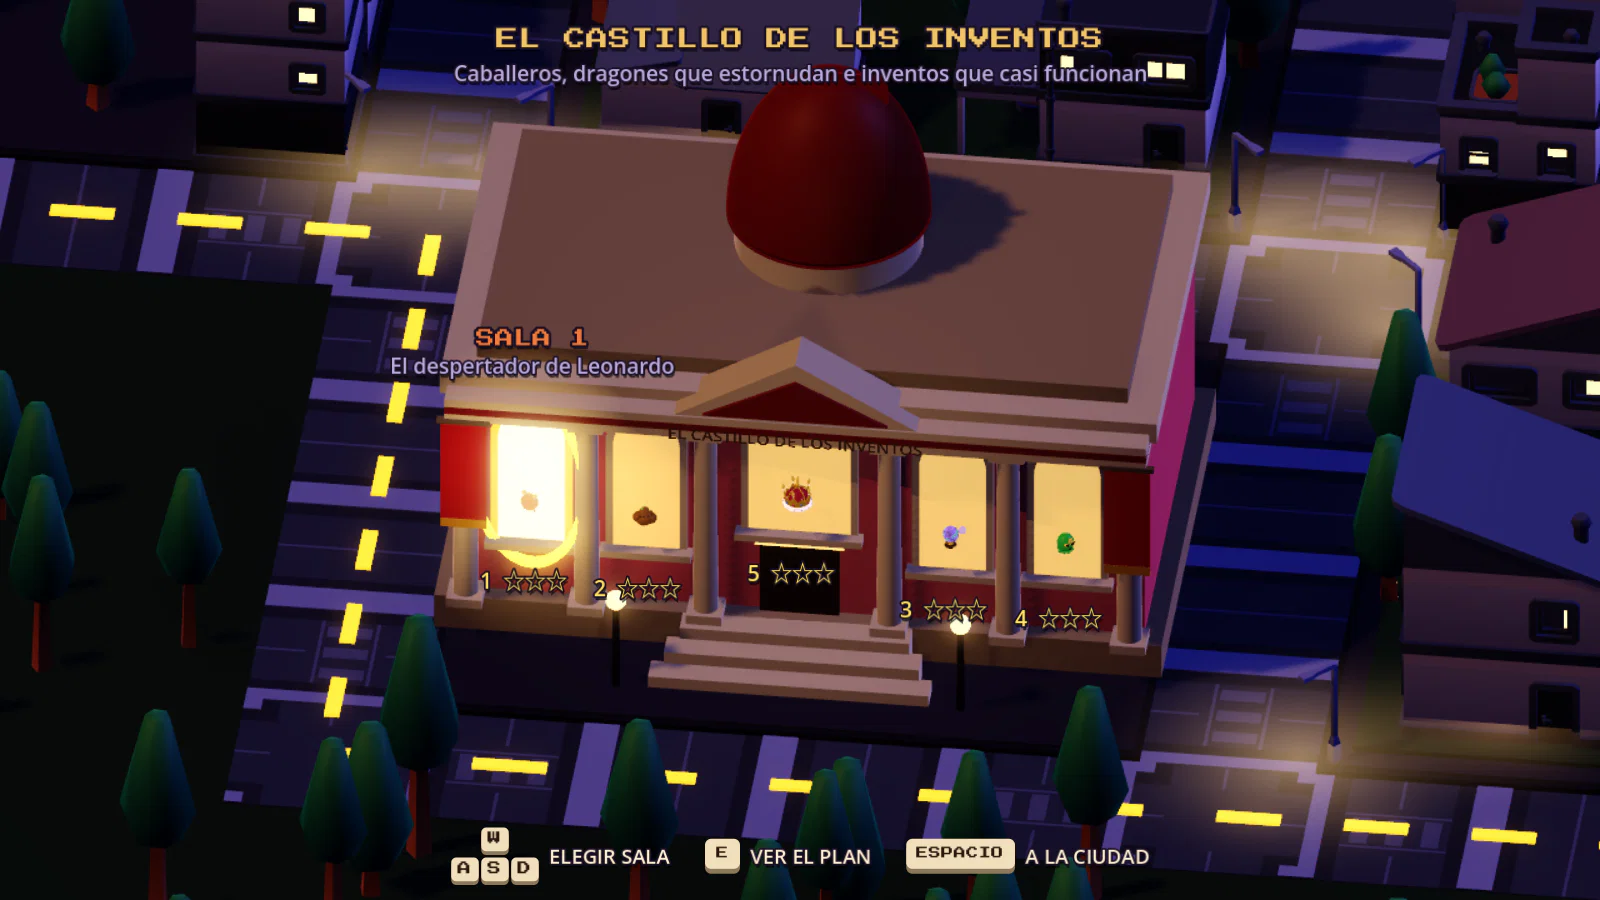
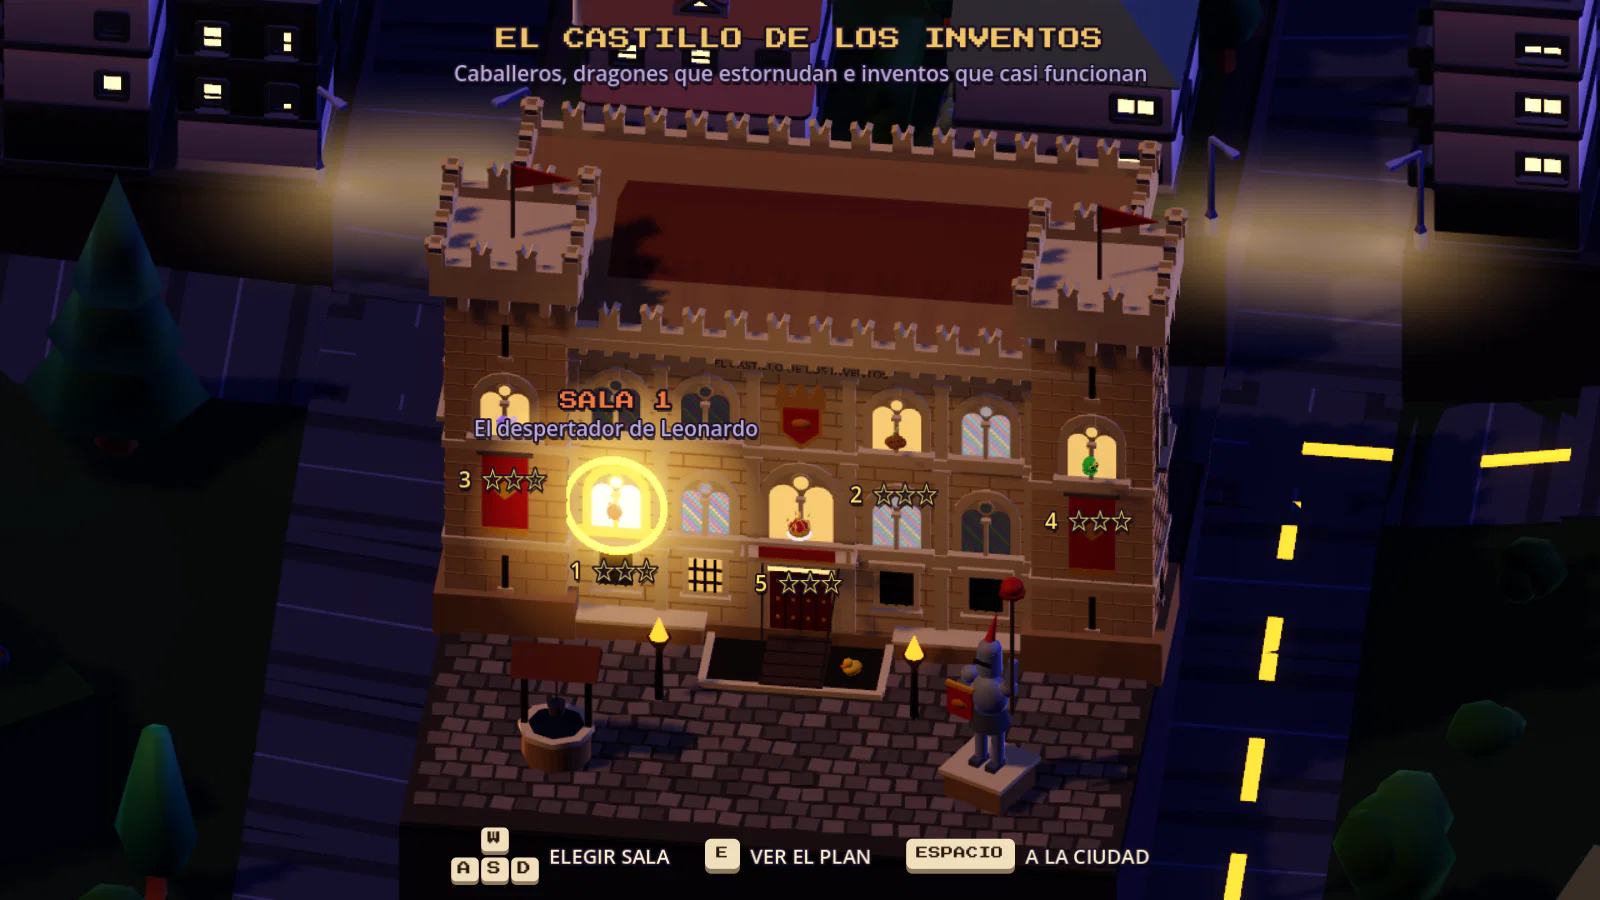
Docs: la captura del museo 4, El Castillo de los Inventos como palacio renacentista con torres, y su hito

diff --git a/docs/data/versiones.js b/docs/data/versiones.js
@@ -679,6 +679,22 @@ window.VERSIONES = {
    "bytes": 49800
   },
   {
+   "asunto": "museo",
+   "fecha": "2026-09-28T20:14",
+   "commit": "827b1b9",
+   "titulo": "El Castillo de los Inventos, palacio con torres",
+   "porque": "El museo 4 rehecho como castillo convertido en museo: un palacio renacentista (Palazzo Rucellai) con torres",
+   "cambio": "Sillería color arena, pilastras, cornisa con almenas y dos torres con matacanes y estandartes rojos; bíforas con vidrieras (salas en la fachada y en las torres, el gran golpe en la del balcón con la corona sobre el escudo); patio con puente levadizo, foso con patito, pozo y caballero con desatascador",
+   "file": "versiones/museo/2026-09-28-el-castillo-de-los-inventos-palacio-con-.webp",
+   "from": "docs/capturas/menu_museo_4.webp",
+   "commit_msg": "",
+   "size": [
+    1280,
+    720
+   ],
+   "bytes": 61764
+  },
+  {
    "asunto": "recreativa",
    "fecha": "2026-09-27T14:55",
    "commit": "59b9a18",
@@ -711,5 +727,5 @@ window.VERSIONES = {
    "bytes": 68042
   }
  ],
- "bytes": 2699448
+ "bytes": 2761212
 };
